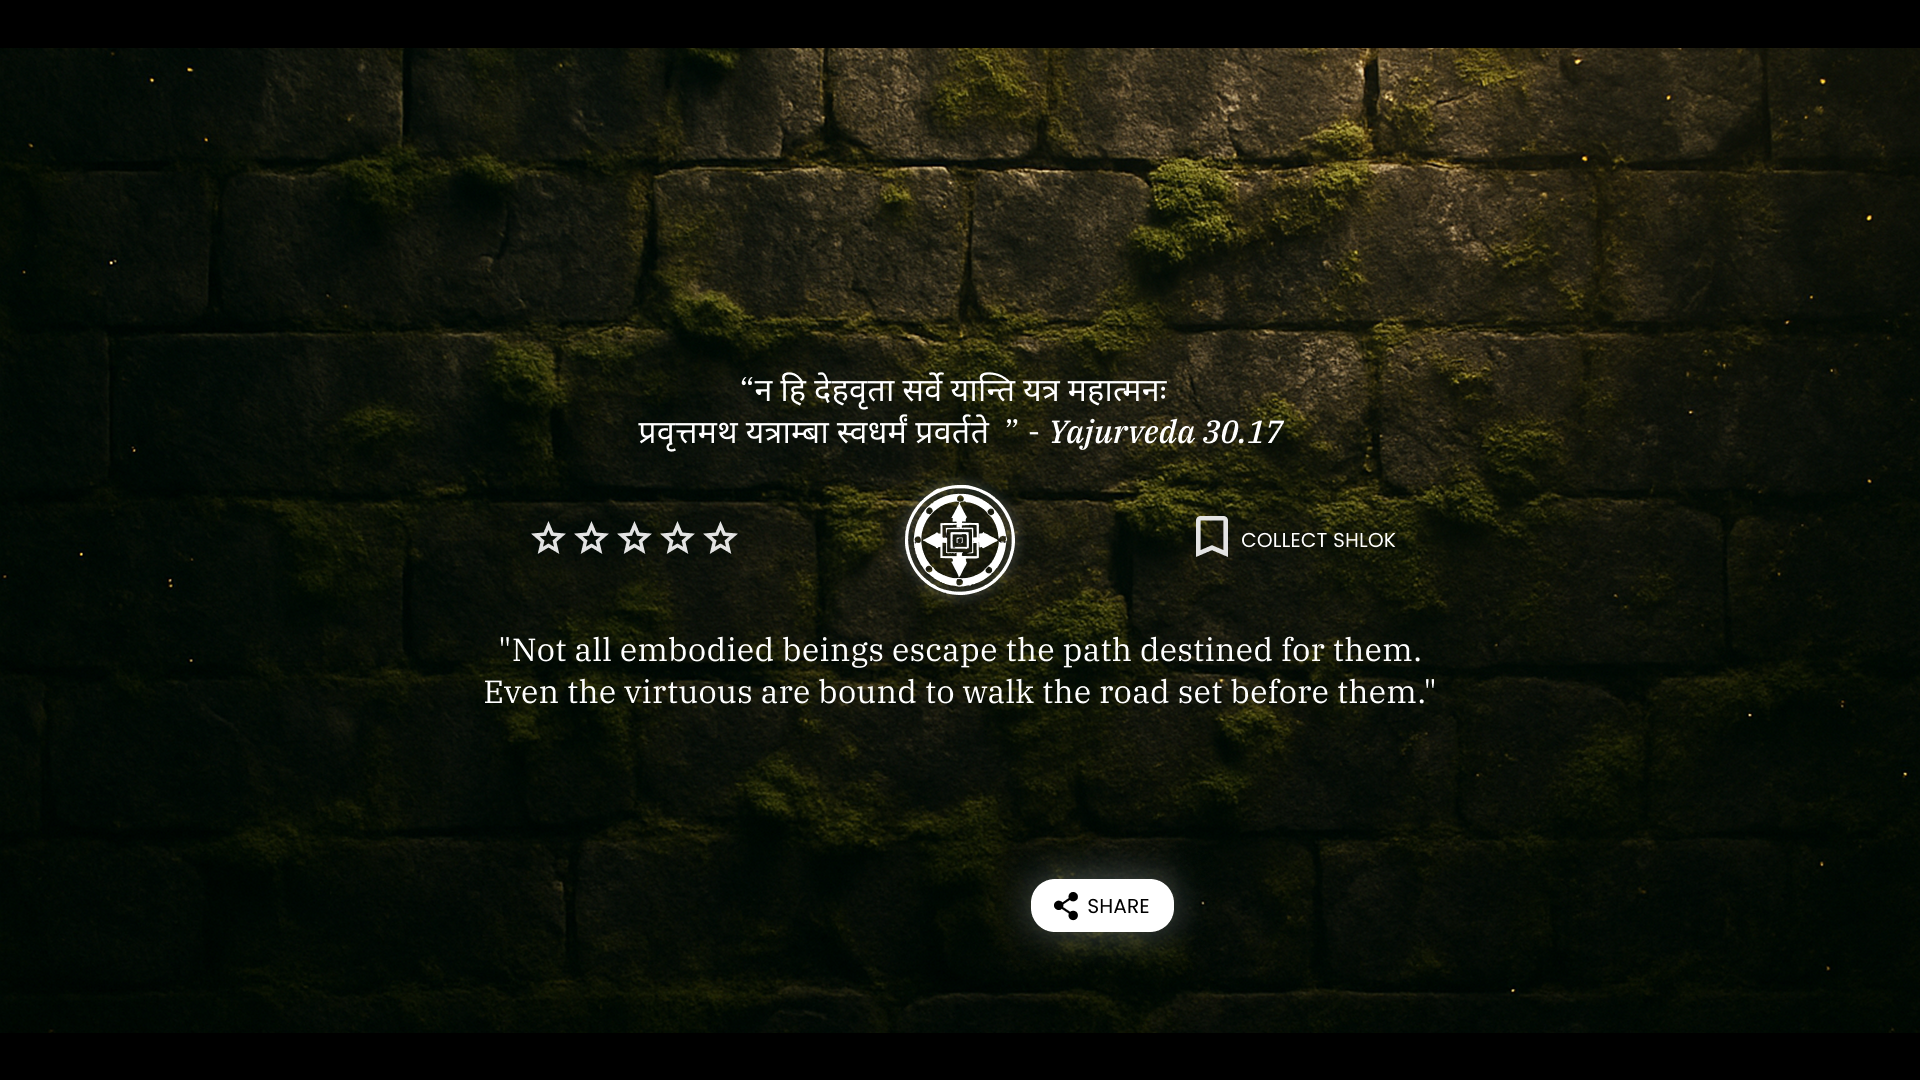
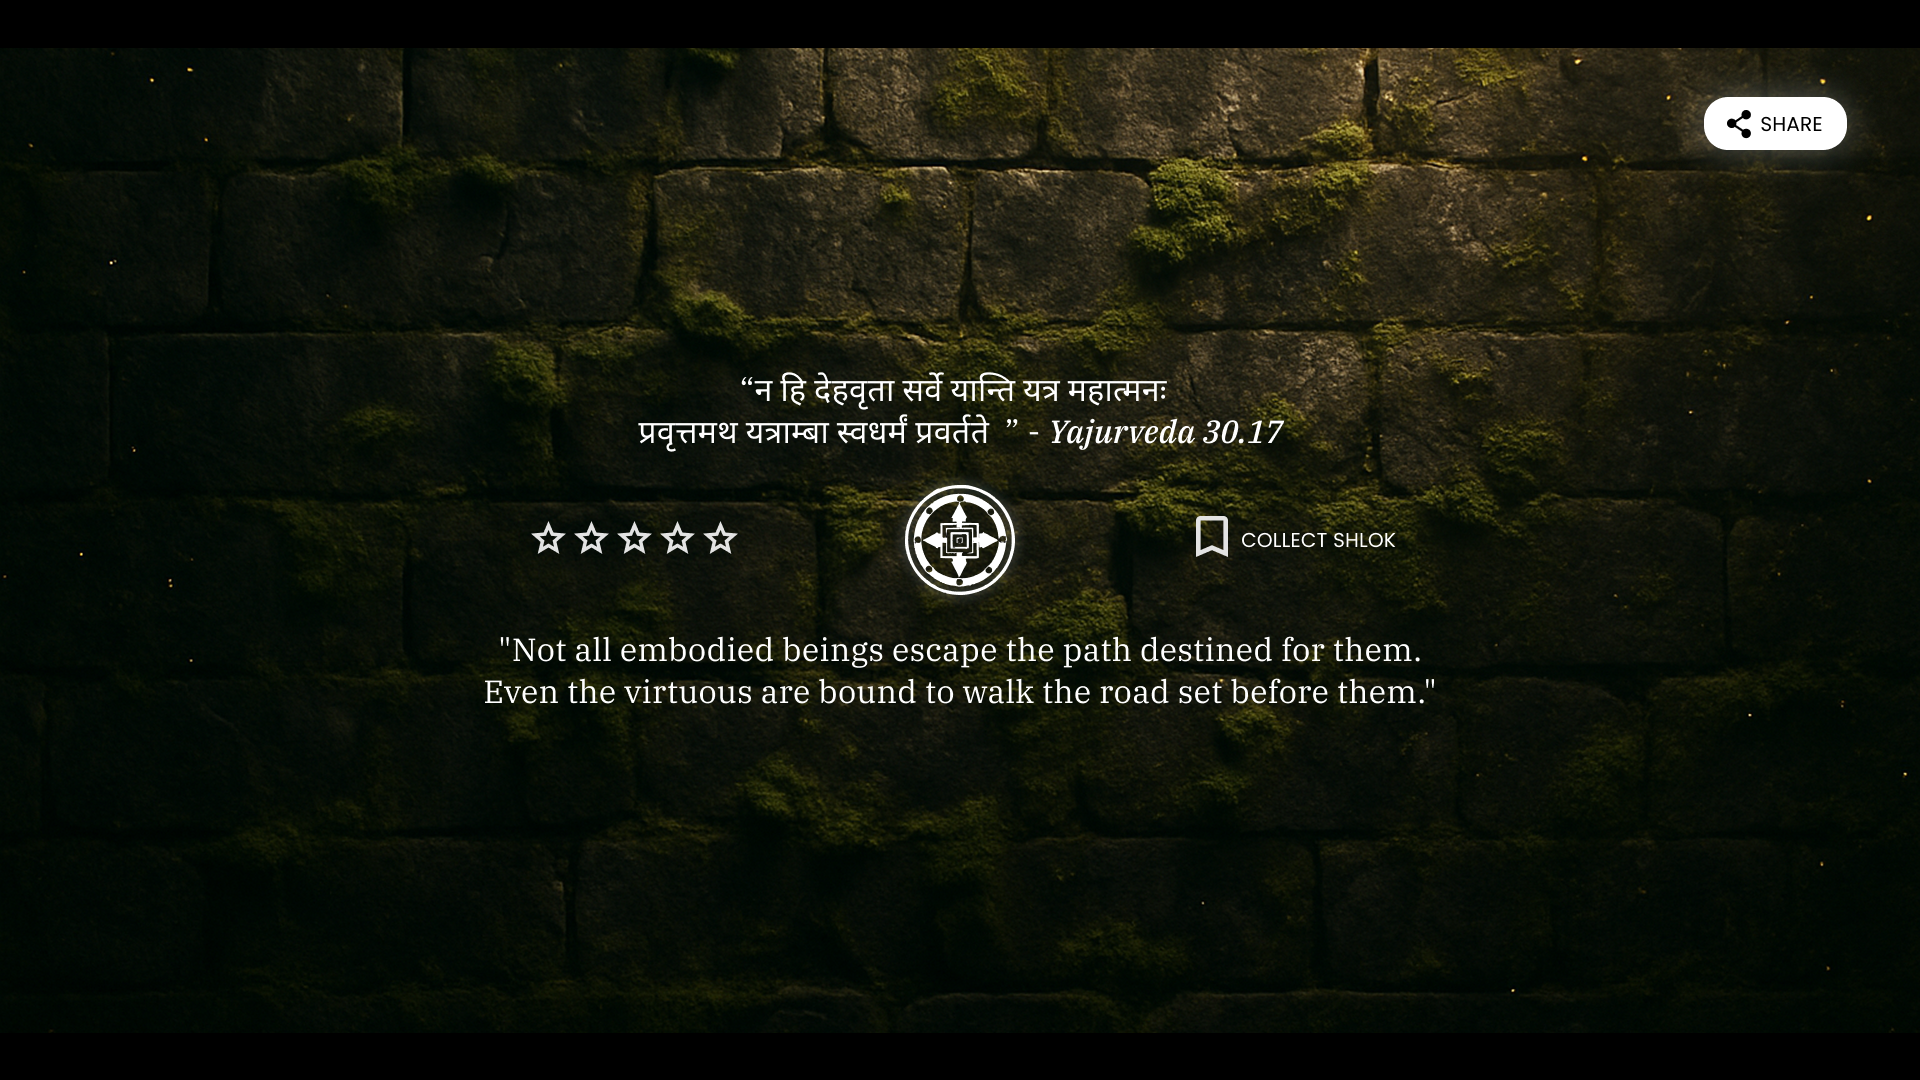
minor bug fixes

Changed region(s): [[0.5312, 0.7944, 0.625, 0.8861], [0.875, 0.0611, 0.9688, 0.1528]]

diff --git a/script.js b/script.js
@@ -19,11 +19,11 @@ const gameScenes = [
         showBackward: true,
         audio: 'audio/narration.mp3',
         useTypewriter: true,
-        typewriterSpeed: 35  // Speed in milliseconds (lower = faster)
+        typewriterSpeed: 30  // Speed in milliseconds (lower = faster)
     },
     {
         id: 3,
-        description: "Welcome stranger, I see you! My name is Kakbhushundi. I am a devotee of Shree Ram. Don't be startled by my looks, my appearance is because of a curse due to my arrogance and pride.",
+        description: "Welcome stranger, I see you! My name is Kakbhushundi. I am a devotee of Shree Ram. Don't be      startled by my looks, my appearance is because of a curse due to my arrogance and pride.",
         image: '2.png',
         showControls: true,
         showForward: true,
@@ -34,7 +34,7 @@ const gameScenes = [
     },
     {
         id: 4,
-        description: "But this curse became a step in my spiritual evolution, when I renounced my ego and embraced total devotion to Shree Ram. Moved by my unwavering devotion, Shree Ram granted me immortality and divine knowledge allowing me to see events that have already occurred and that would occur in the future, across different universes.",
+        description: "But this curse became a step in my spiritual evolution, when I renounced my ego and embraced total devotion to Shree Ram. Moved by my unwavering devotion, Shree Ram granted me immortality and divine knowledge allowing me to see events that have already occurred and that would occur in the    future, across different universes.",
         image: '3.png',
         showControls: true,
         showForward: true,
@@ -45,7 +45,7 @@ const gameScenes = [
     },
     {
         id: 5,
-        description: "I have witnessed Mahabharat not once, but sixteen times across different universes with different outcomes. Each time, the great war unfolds with subtle variations, yet one truth remains constant: destiny is a force not easily turned.",
+        description: "I have witnessed Mahabharat not once, but sixteen times across different universes with different outcomes. Each time, the great war unfolds with subtle variations, yet one truth remains constant:  destiny is a force not easily turned.",
         image: '4.png',
         showControls: true,
         showForward: true,
@@ -56,7 +56,7 @@ const gameScenes = [
     },
     {
         id: 6,
-        description: "While I watched Mahabharat across timeline and universes, I stood at a pivotal moment in one of the universe, where I have traveled to a timeline where I must choose how to guide the Pandavs to win the battle of Kurukshetra.",
+        description: "While I watched Mahabharat across timeline and universes, I stood at a pivotal moment in one of the universe, where I have traveled to a timeline where I must choose how to guide the Pandavs to win  the battle of Kurukshetra.",
         image: '5.png',
         showControls: true,
         showForward: true,
@@ -65,7 +65,7 @@ const gameScenes = [
         useTypewriter: true,
         typewriterSpeed: 30
     },
-    {
+    /*{
         id: 7,
         description: "What should I have done?",
         image: '6.png',
@@ -76,7 +76,7 @@ const gameScenes = [
         useTypewriter: true,
         typewriterSpeed: 10
         
-    },
+    },*/
     {
         id: 8,
         description: "What should I have done?",
@@ -88,7 +88,9 @@ const gameScenes = [
         choices: [
             { text: "Should I advise the Pandavas to prevent war and guide them toward peace over bloodshed?", nextScene: 9 },
             { text: "Or should I let destiny unfold as it must? For I have seen that the war may be inevitable", nextScene: 13 }
-        ]
+        ],
+        useTypewriter: true,
+        typewriterSpeed: 10,
     },
     {
         id: 9,
@@ -205,7 +207,7 @@ const assetsToPreload = [
     'audio/scene2.mp3',
     'audio/scene3.mp3',
     'audio/scene4.mp3',
-    'audio/scene6.mp3',
+    //'audio/scene6.mp3',
     'audio/choice.mp3',
     'audio/A1.mp3',
     'audio/A2.mp3',
@@ -295,26 +297,6 @@ function playNarration(audioPath) {
         console.log('Audio playback failed:', error);
     });
 }
-
-// Function to update scale
-function updateScale() {
-    const windowWidth = window.innerWidth;
-    const windowHeight = window.innerHeight;
-    const containerWidth = 1920;
-    const containerHeight = 1080;
-    
-    const scaleX = windowWidth / containerWidth;
-    const scaleY = windowHeight / containerHeight;
-    const scale = Math.min(scaleX, scaleY);
-    
-    container.style.setProperty('--scale-factor', scale);
-}
-
-// Initial scale
-updateScale();
-
-// Update scale on window resize
-window.addEventListener('resize', updateScale);
 
 // Function to handle scene transition
 function handleSceneTransition(newSceneIndex) {

diff --git a/style.css b/style.css
@@ -16,21 +16,19 @@ body {
 
 /* Container to maintain aspect ratio */
 .container {
-    width: 1920px;
-    height: 1080px;
     position: relative;
+    width: 100%;
+    height: 100%;
     overflow: hidden;
-    transform-origin: center;
-    transform: scale(var(--scale-factor, 1));
 }
 
 .background-image {
-    width: 100%;
-    height: 100%;
-    object-fit: cover;
     position: absolute;
     top: 0;
     left: 0;
+    width: 100%;
+    height: 100%;
+    object-fit: cover;
     transition: opacity 0.5s ease-in-out;
 }
 
@@ -61,12 +59,14 @@ body.fade::before {
     bottom: 100px;
     left: 50%;
     transform: translateX(-50%);
-    width: 1520px;
+    width: 100%;
+    max-width: 1520px;
     text-align: center;
     color: white;
     z-index: 2;
     text-shadow: 2px 2px 4px rgba(0, 0, 0, 0.8);
     transition: opacity 0.5s ease-in-out;
+    box-sizing: border-box;
 }
 
 .story-content.fade {
@@ -92,7 +92,8 @@ body.fade::before {
     min-height: 2.8em;
     white-space: pre-wrap;
     color: #666; /* Default grey color */
-    width: 1520px;
+    width: 100%;
+    max-width: 1520px;
     margin-left: auto;
     margin-right: auto;
     background: rgba(0, 0, 0, 0.4);
@@ -101,6 +102,10 @@ body.fade::before {
     padding: 20px 40px;
     border-radius: 10px;
     box-shadow: 0 4px 6px rgba(0, 0, 0, 0.1);
+    box-sizing: border-box;
+    word-break: keep-all;
+    overflow-wrap: normal;
+    hyphens: none;
 }
 
 .scene-description.typewriter {
@@ -162,10 +167,10 @@ body.fade::before {
     gap: 20px;
     justify-content: center;
     align-items: center;
-    position: absolute;
-    top: 960px;
+    position: fixed;
+    bottom: 30px;
     right: 30px;
-    z-index: 2;
+    z-index: 1000;
 }
 
 .control img {
@@ -173,6 +178,8 @@ body.fade::before {
     height: 50px;
     cursor: pointer;
     transition: transform 0.2s ease, opacity 0.3s ease;
+    position: relative;
+    z-index: 1001;
 }
 
 .control img:hover {
